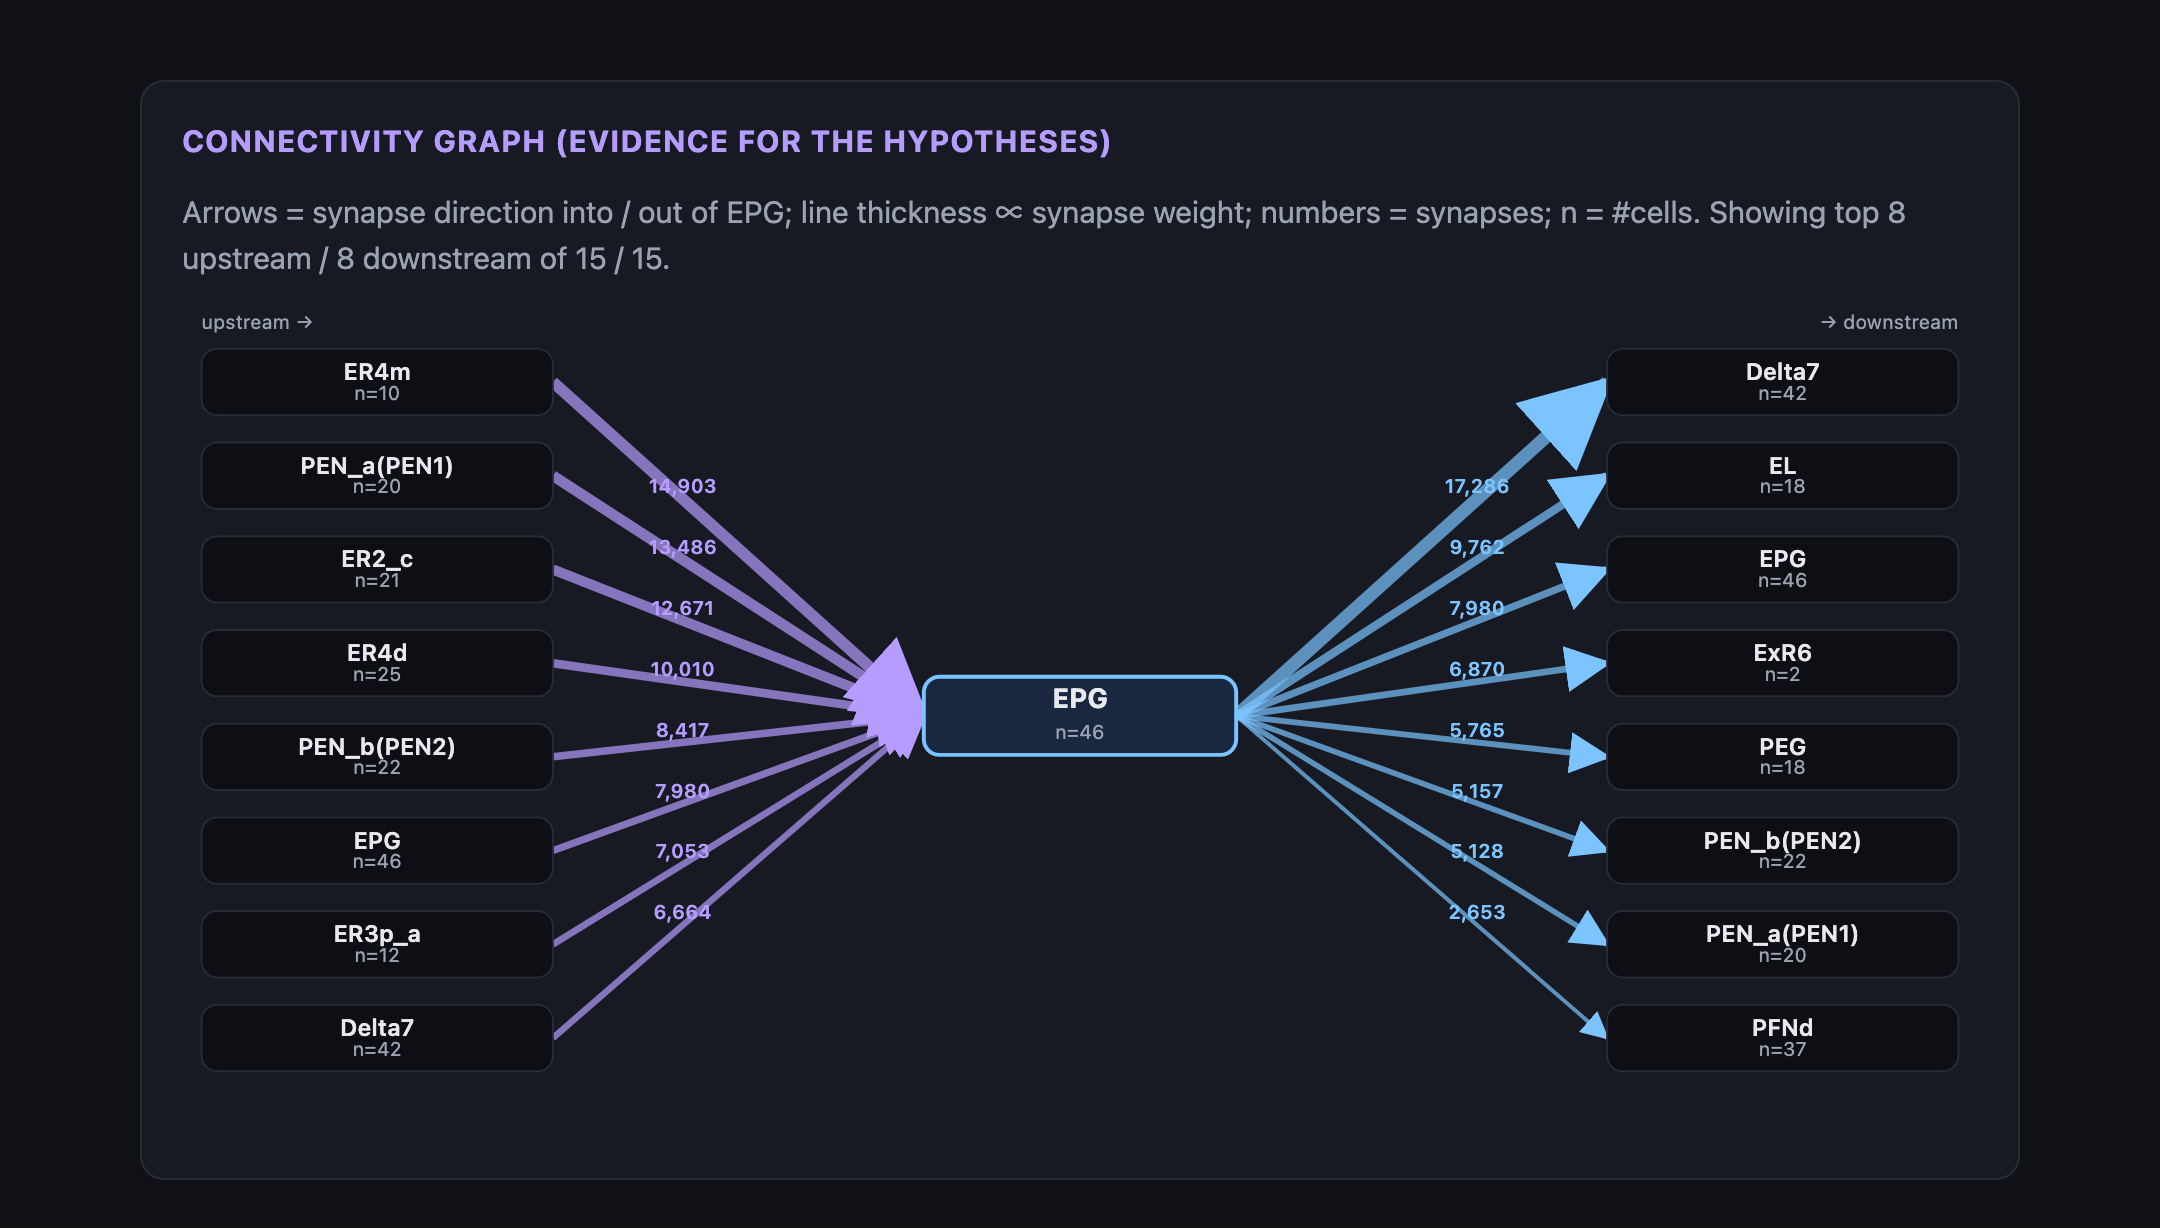
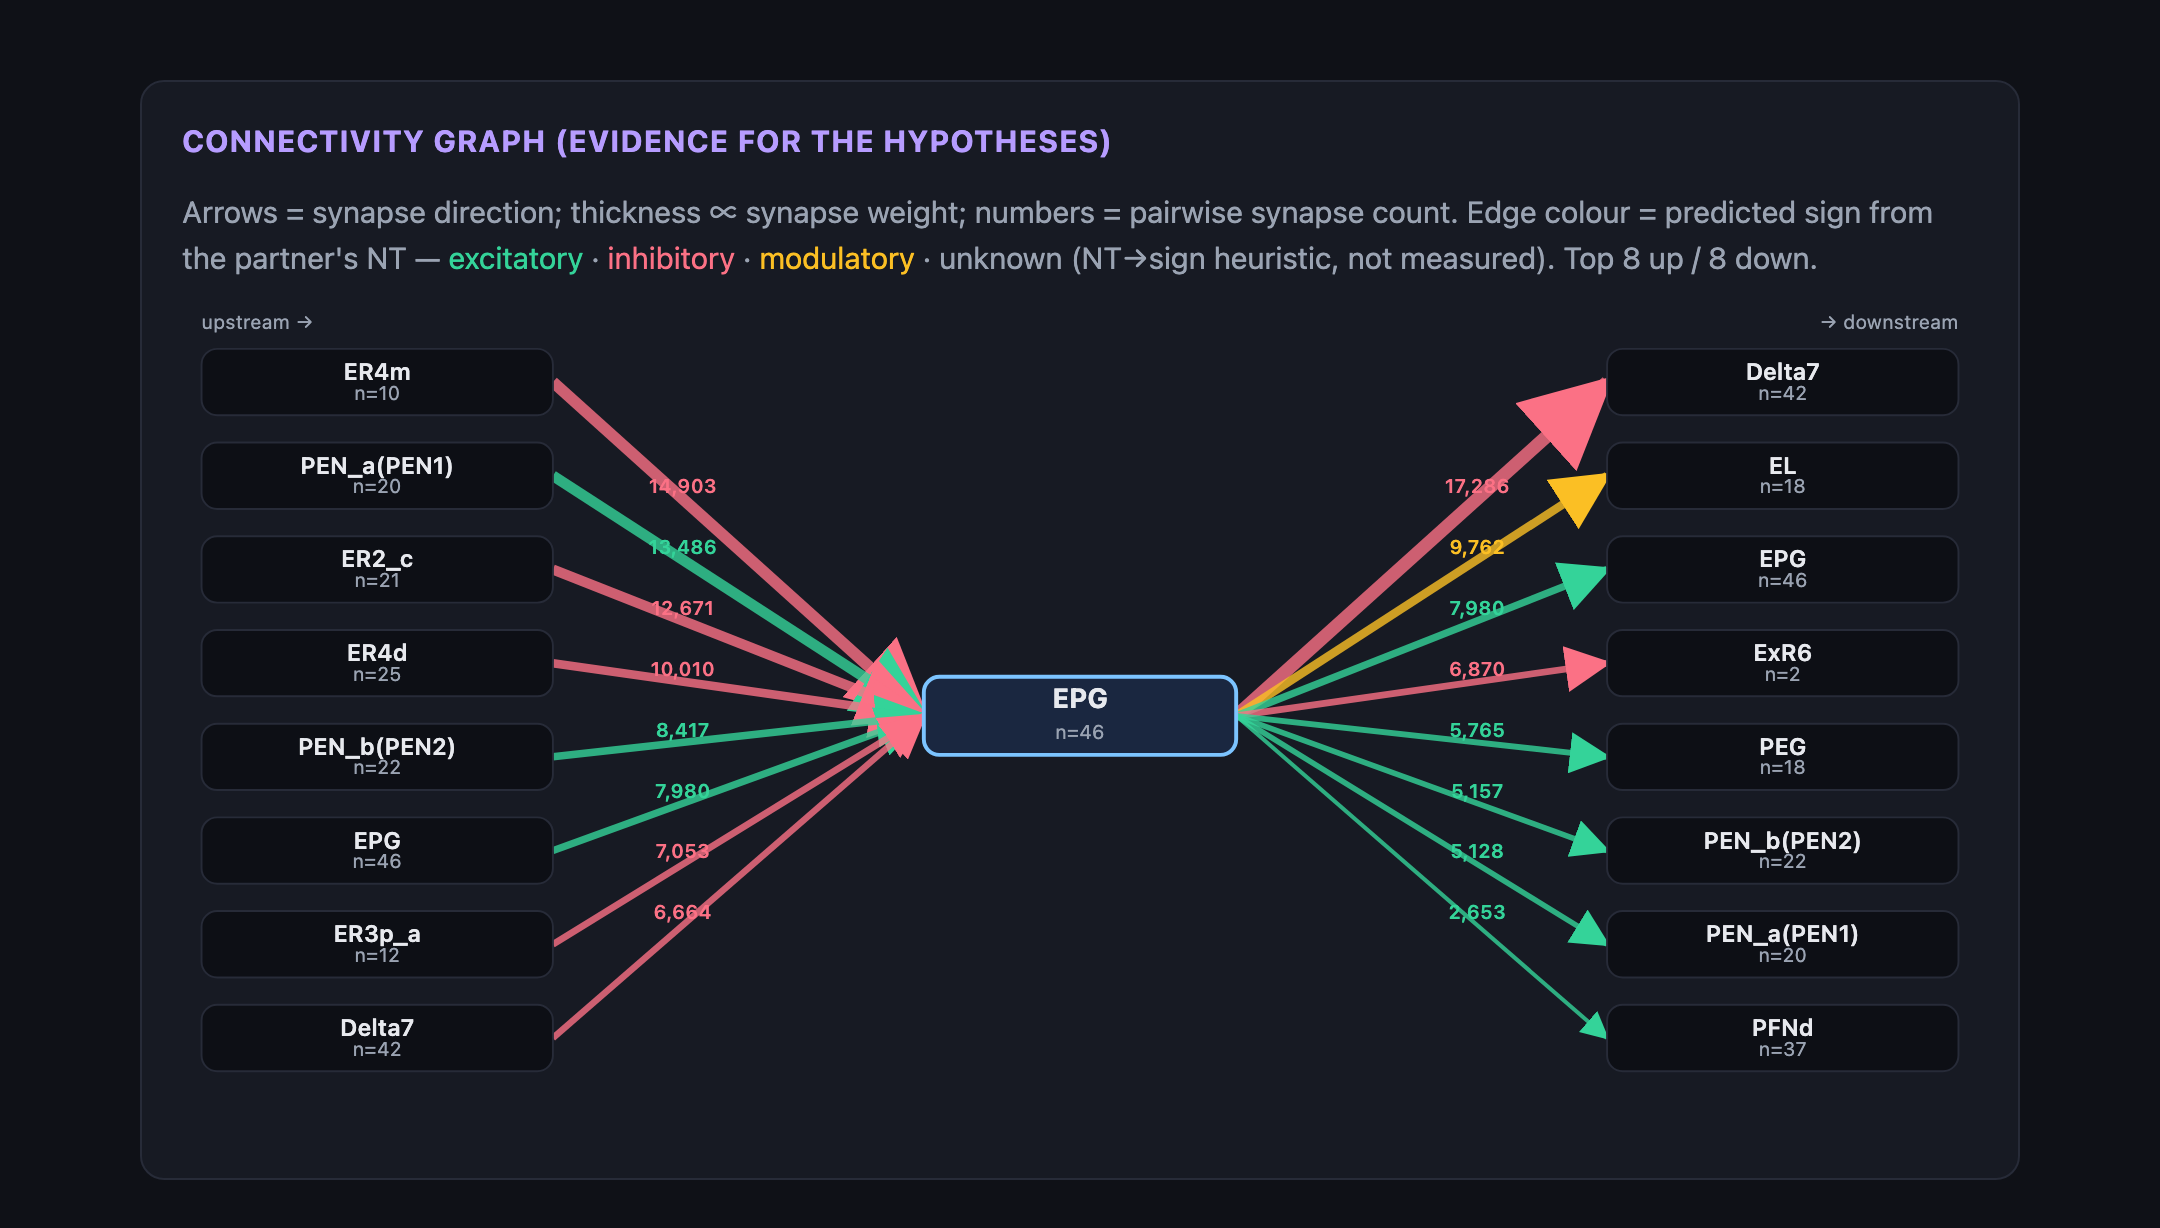
docs: sign-coloured connectivity graph + predicted-sign tip
Refresh docs/graph.png with edges coloured by predicted synapse sign (EPG:
inhibitory ring neurons in red, excitatory PEN/EPG recurrence in green,
modulatory EL in amber) and add a README tip explaining the NT→sign heuristic.

diff --git a/README.md b/README.md
@@ -18,9 +18,12 @@ structured JSON + a readable Markdown report.
 
 ![Connectivity graph for EPG](docs/graph.png)
 
-*Connectivity graph (from the web UI) for `EPG` — the structural evidence the
-hypotheses are grounded in: top-8 upstream partners → EPG → top-8 downstream
-partners, edge thickness ∝ synapse weight, with synapse counts and cell counts `n`.*
+*Connectivity graph (from the web UI) for `EPG`: top-8 upstream → EPG → top-8
+downstream, edge thickness ∝ synapse weight. **Edge colour = predicted synapse
+sign** from the partner's neurotransmitter — <span>excitatory</span> (green) /
+inhibitory (red) / modulatory (amber) — so the ring-attractor's excitatory
+PEN/EPG recurrence vs inhibitory ring-neuron input reads at a glance. A NT→sign
+heuristic, always labelled predicted.*
 
 ---
 
@@ -136,6 +139,14 @@ Outputs land in `outputs/<cell_type>.json` and `outputs/<cell_type>.md`.
 > Kenyon cells `KCg-m`, `KCab-c`, …; plus the 36 `MBON…` output neurons). Pass an
 > actual type instead: `KCg-m`, `MBON01`, `EPG`. Unknown/typo'd types fall back to
 > fuzzy name suggestions.
+
+> **Tip — predicted synapse sign.** A connectome gives no synapse sign, but each
+> partner now carries a **predicted sign** from its neurotransmitter (borrowed from
+> `male-cns`): ACh → excitatory, GABA / glutamate → inhibitory, aminergic →
+> modulatory. It colours the graph edges and lets hypotheses reason about
+> excitation vs inhibition — always **labelled predicted** (a NT→sign heuristic,
+> not measured; glutamate is only *usually* inhibitory in flies). Effective
+> strength and neuromodulation remain unknown.
 
 > **Tip — what the numbers mean.** ROI tables show **synaptic *site* counts**
 > (pre/post sites summed over the cells); partner `w` / "synapse count" is the
